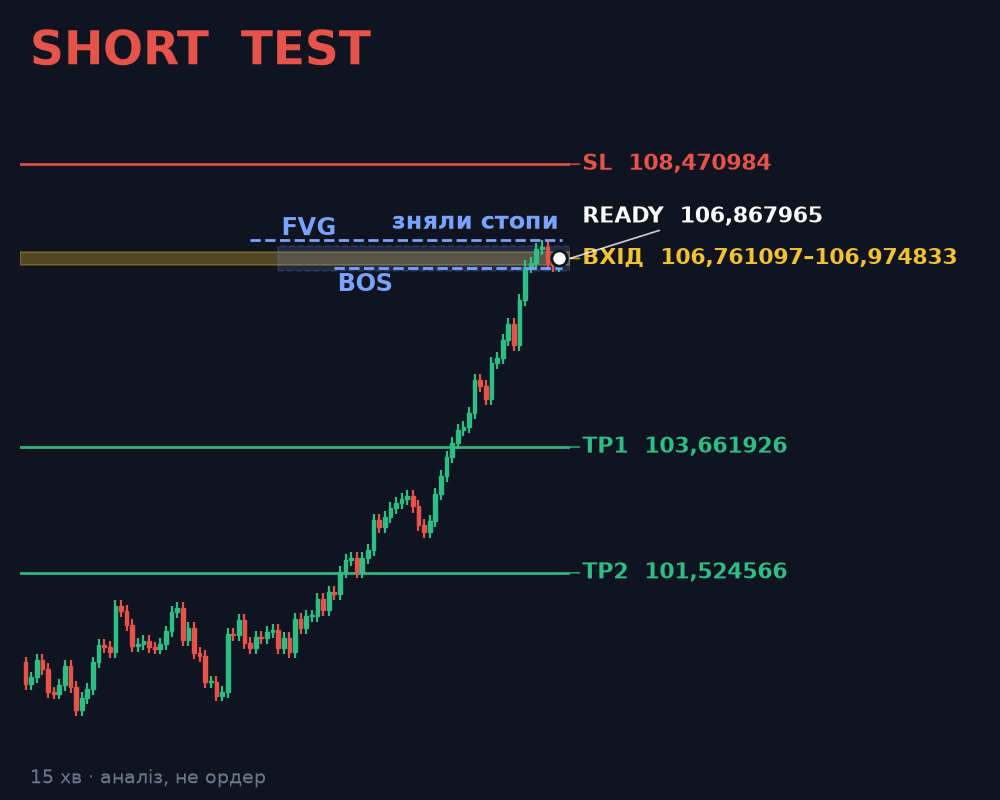
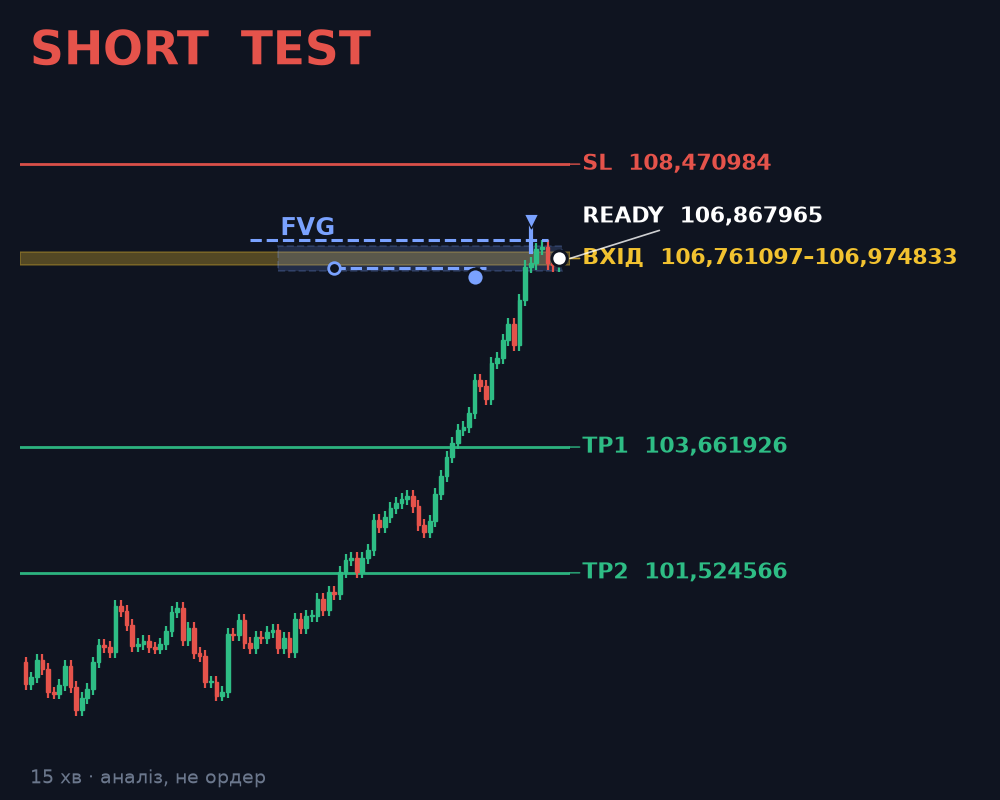
Докази на картці: геометрія FVG (зона, напрям, статус, час), BOS/CHoCH (свінг → закриття за ним), sweep (рівень, тінь, закриття назад); підпис не далі 90 px від геометрії, маркери як перешкоди
Claude-Session: https://claude.ai/code/session_01PfKZ3KmLfycDhaKatouCoE

Changed region(s): [[0.279, 0.25, 0.589, 0.375]]

diff --git a/office_ready_card.py b/office_ready_card.py
@@ -203,31 +203,67 @@ def render(*, symbol: str, direction: str, candles: List[Dict[str, Any]], entry:
         return None if (step is None or t is None) else (float(t) - tt[0]) / step
 
     renderer = fig.canvas.get_renderer()
+    obstacles: List[Any] = []     # маркери й точки: підписи не лягають поверх
     placed: List[Any] = []        # зайняті прямокутники підписів (екранні координати): жоден підпис не лягає на інший
     skipped: List[str] = []
 
-    def put(txt: str, color: str, cands: List[Any]) -> bool:
-        """Ставить підпис у першому кандидаті, де він повністю в межах графіка й не перетинає вже поставлені; немає чистого місця → без підпису (геометрія лишається)."""
+    MAX_LABEL_PX = 90.0   # підпис не може бути далі за стільки пікселів від своєї геометрії; немає місця поруч → без підпису (краще лінія без слова, ніж слово не там)
+    label_dist: List[float] = []
+
+    def put(txt: str, color: str, cands: List[Any], anchors: List[Any]) -> bool:
+        """Ставить підпис у першому кандидаті: повністю в межах графіка, без перетину з уже поставленими й не далі MAX_LABEL_PX від геометрії (anchors — точки на ній, у даних)."""
+        pts = [ax.transData.transform((float(ax_), float(ay_))) for ax_, ay_ in anchors]
         for x, y, ha, va in cands:
             t = ax.text(x, y, txt, color=color, fontsize=17, fontweight="bold", ha=ha, va=va, zorder=9)
-            bb = t.get_window_extent(renderer).expanded(1.06, 1.3)
-            if ax.bbox.x0 <= bb.x0 and bb.x1 <= ax.bbox.x1 and ax.bbox.y0 <= bb.y0 and bb.y1 <= ax.bbox.y1 and not any(bb.overlaps(o) for o in placed):
+            raw = t.get_window_extent(renderer)
+            bb = raw.expanded(1.06, 1.3)
+            dist = min((max(raw.x0 - px, 0.0, px - raw.x1) ** 2 + max(raw.y0 - py, 0.0, py - raw.y1) ** 2) ** 0.5 for px, py in pts) if pts else 0.0
+            if (ax.bbox.x0 <= bb.x0 and bb.x1 <= ax.bbox.x1 and ax.bbox.y0 <= bb.y0 and bb.y1 <= ax.bbox.y1 and not any(bb.overlaps(o) for o in placed + obstacles)
+                    and dist <= MAX_LABEL_PX):
                 placed.append(bb)
+                label_dist.append(round(float(dist), 1))
                 return True
             t.remove()
         skipped.append(txt)
         return False
 
-    def spots(x_left: float, y: float, dy: float) -> List[Any]:
-        """Кандидати для підпису біля горизонтального об'єкта: ліворуч/праворуч, над/під."""
-        return [(x_left, y + dy, "left", "bottom"), (n - 1.0, y + dy, "right", "bottom"), (x_left, y - dy, "left", "top"), (n - 1.0, y - dy, "right", "top")]
+    def block(x: float, y: float, px: float = 16.0) -> None:
+        """Маркер/точка — перешкода для підписів: текст не лягає поверх."""
+        from matplotlib.transforms import Bbox
 
+        cx, cy = ax.transData.transform((float(x), float(y)))
+        obstacles.append(Bbox([[cx - px, cy - px], [cx + px, cy + px]]))
+
+    def spots(x_left: float, x_right: float, y: float, dy: float) -> List[Any]:
+        """Кандидати для підпису біля горизонтального відрізка: над/під, з лівого й правого краю."""
+        return [(x_left, y + dy, "left", "bottom"), (x_right, y + dy, "right", "bottom"), (x_left, y - dy, "left", "top"), (x_right, y - dy, "right", "top")]
+
+    def seg_anchors(xa_: float, xb_: float, y: float) -> List[Any]:
+        return [(xa_ + (xb_ - xa_) * k / 6.0, y) for k in range(7)]
+
+    _rp0 = _f(ready_price)
+    if _rp0 is not None and y0 < _rp0 < y1:
+        block(n - 1, _rp0, 16.0)   # маркер READY — перешкода для підписів доказів
+    for it in (evidence or [])[:3]:   # спершу всі маркери доказів стають перешкодами, потім ставимо підписи
+        try:
+            if it.get("draw") == "break" and x_of(it.get("t0")) is not None and x_of(it.get("t_break")) is not None:
+                block(x_of(it["t0"]), float(it["price"]))
+                block(x_of(it["t_break"]), float(it["close"]))
+            elif it.get("draw") == "sweep" and x_of(it.get("t_sweep")) is not None:
+                block(x_of(it["t_sweep"]), float(it["extreme"]))
+            elif it.get("draw") == "marker" and x_of(it.get("t")) is not None:
+                block(x_of(it["t"]), float(it["price"]))
+        except Exception:  # noqa: BLE001
+            continue
     drawn_ev: List[str] = []
     for it in (evidence or [])[:3]:   # докази цього READY: лише те, що дало підтвердження (office_ready_evidence)
         try:
             kind, lab, dw = str(it.get("kind")), str(it.get("label") or ""), it.get("draw")
+            if lab and dw in ("sweep", "break") and it.get("price") is not None:
+                lab = f"{lab} {_num(it['price'], symbol)}"   # у підписі — сам рівень
             if dw == "lines":
                 chan = kind == "channel_edge"
+                first = None
                 for ln in it.get("lines") or []:
                     x0, x1 = x_of(ln["t0"]), x_of(ln["t1"])
                     if x0 is None or x1 is None or x1 == x0:
@@ -237,36 +273,61 @@ def render(*, symbol: str, direction: str, candles: List[Dict[str, Any]], entry:
                     ya, yb = float(ln["p0"]) + slope_ * (xs - x0), float(ln["p0"]) + slope_ * (xe - x0)
                     mid = chan and ln.get("role") == "mid"
                     ax.plot([xs, xe], [ya, yb], color=EVC, linewidth=1.4 if chan else 2.6, linestyle=":" if mid else "-", alpha=0.75 if chan else 0.95, zorder=5)
-                ln0 = (it.get("lines") or [None])[0]
-                if ln0 and lab:
-                    x0, x1 = x_of(ln0["t0"]), x_of(ln0["t1"])
-                    if x0 is not None and x1 not in (None, x0):
-                        slope0 = (float(ln0["p1"]) - float(ln0["p0"])) / (x1 - x0)
-                        cands = [(max(x0, 0.0) - 0.8, float(ln0["p0"]) + slope0 * (max(x0, 0.0) - x0), "right", "center")]   # зліва від початку лінії — там зазвичай порожньо
-                        xa, xb = max(x0, 0.0), min(max(x0, x1), n - 1.0)   # лише там, де лінія реально видна на графіку
-                        for fr in (0.5, 0.3, 0.7, 0.15, 0.85):
-                            xl = xa + (xb - xa) * fr
-                            yl = float(ln0["p0"]) + (float(ln0["p1"]) - float(ln0["p0"])) / (x1 - x0) * (xl - x0)
-                            cands += [(xl, yl + rng * 0.03, "center", "bottom"), (xl, yl - rng * 0.03, "center", "top")]
-                        put(lab, EVC, cands)
-            elif dw == "band":
-                xs = max(-1.0, x_of(it.get("t0")) or -1.0)
-                ax.add_patch(Rectangle((xs, float(it["lo"])), n + 1 - xs, max(float(it["hi"]) - float(it["lo"]), rng * 0.006), facecolor=EVC, alpha=0.16, edgecolor=EVC,
-                                       linewidth=1.2, linestyle="--", zorder=1))
+                    if first is None:
+                        first = (x0, x1, slope_, float(ln["p0"]))
+                if first and lab:
+                    x0, x1, sl0, p0 = first
+                    xa, xb = max(x0, 0.0), min(max(x0, x1), n - 1.0)   # лише там, де лінія реально видна на графіку
+                    ypt = lambda xx: p0 + sl0 * (xx - x0)  # noqa: E731
+                    cands = [(xa - 0.8, ypt(xa), "right", "center")]   # зліва від початку лінії — там зазвичай порожньо
+                    for fr in (0.5, 0.3, 0.7, 0.15, 0.85):
+                        xl = xa + (xb - xa) * fr
+                        cands += [(xl, ypt(xl) + rng * 0.03, "center", "bottom"), (xl, ypt(xl) - rng * 0.03, "center", "top")]
+                    put(lab, EVC, cands, [(xa + (xb - xa) * k / 6.0, ypt(xa + (xb - xa) * k / 6.0)) for k in range(7)])
+            elif dw == "band":   # FVG / рівень / OB / OTE: зона від t0 до t1 (або до кінця графіка)
+                xs = max(-1.0, x_of(it.get("t0")) if x_of(it.get("t0")) is not None else -1.0)
+                xe = min(n + 1.0, x_of(it.get("t1")) + 0.5) if x_of(it.get("t1")) is not None else n + 1.0
+                lo_, hi_ = float(it["lo"]), float(it["hi"])
+                ax.add_patch(Rectangle((xs, lo_), max(xe - xs, 0.5), max(hi_ - lo_, rng * 0.006), facecolor=EVC, alpha=0.18, edgecolor=EVC, linewidth=1.4, linestyle="--", zorder=1))
                 if lab:
-                    cands = [(xs + 0.6, float(it["hi"]) + rng * 0.008, "left", "bottom"), (n - 1.0, float(it["hi"]) + rng * 0.008, "right", "bottom"),
-                             (xs + 0.6, float(it["lo"]) - rng * 0.008, "left", "top"), (n - 1.0, float(it["lo"]) - rng * 0.008, "right", "top")]
-                    put(lab, EVC, cands)
+                    cands = spots(xs + 0.4, xe - 0.4, hi_ if True else lo_, rng * 0.008)[:2] + [(xs + 0.4, lo_ - rng * 0.008, "left", "top"), (xe - 0.4, lo_ - rng * 0.008, "right", "top")]
+                    put(lab, EVC, cands, [(xs, hi_), (xs, lo_), (xe, hi_), (xe, lo_), ((xs + xe) / 2, hi_), ((xs + xe) / 2, lo_)])
             elif dw == "hline":
-                xs = max(-1.0, x_of(it.get("t0")) or -1.0)
+                xs = max(-1.0, x_of(it.get("t0")) if x_of(it.get("t0")) is not None else -1.0)
                 ax.plot([xs, n - 0.5], [float(it["price"])] * 2, color=EVC, linewidth=2.0, linestyle="--", zorder=5)
                 if lab:
-                    put(lab, EVC, spots(xs + 0.6, float(it["price"]), rng * 0.008))
+                    put(lab, EVC, spots(xs + 0.6, n - 1.0, float(it["price"]), rng * 0.008), seg_anchors(xs, n - 1.0, float(it["price"])))
+            elif dw == "break":   # BOS/CHoCH: структурний свінг → закриття за ним
+                xs, xb_ = x_of(it.get("t0")), x_of(it.get("t_break"))
+                if xs is None or xb_ is None:
+                    continue
+                pr = float(it["price"])
+                ax.plot([max(xs, -1.0), min(xb_ + 2.0, n - 0.5)], [pr, pr], color=EVC, linewidth=2.2, linestyle="--", zorder=5)
+                ax.scatter([xs], [pr], s=70, color=BG, edgecolors=EVC, linewidths=2, zorder=8)                 # свінг
+                ax.scatter([xb_], [float(it["close"])], s=150, color=EVC, edgecolors=BG, linewidths=2, zorder=8)  # свічка, що закрилась за ним
+                if lab:
+                    xm = (max(xs, 0.0) + xb_) / 2
+                    put(lab, EVC, [(xm, pr + rng * 0.03, "center", "bottom"), (xm, pr - rng * 0.03, "center", "top"), (xb_ + 1.5, pr + rng * 0.03, "left", "bottom"),
+                                   (xs - 0.5, pr + rng * 0.03, "right", "bottom")], [(xs, pr), (xb_, pr), (xm, pr)])
+            elif dw == "sweep":   # знятий рівень: лінія від першого дотику, тінь за рівень, закриття назад
+                xs, xw = x_of(it.get("t0")), x_of(it.get("t_sweep"))
+                if xs is None or xw is None:
+                    continue
+                pr, ex, cl = float(it["price"]), float(it["extreme"]), float(it["close"])
+                ax.plot([max(xs, -1.0), min(xw + 3.0, n - 0.5)], [pr, pr], color=EVC, linewidth=2.2, linestyle="--", zorder=5)
+                ax.plot([xw, xw], [ex, cl], color=EVC, linewidth=3.0, zorder=6)                       # тінь за рівень і повернення
+                ax.scatter([xw], [ex], s=110, marker="v" if it.get("type") == "high" else "^", color=EVC, edgecolors=BG, zorder=8)
+                if lab:
+                    above = it.get("type") == "high"
+                    d_ = rng * 0.035
+                    put(lab, EVC, [(xw - 1.0, pr + (d_ if above else -d_), "right", "bottom" if above else "top"), (xw + 1.5, pr + (d_ if above else -d_), "left", "bottom" if above else "top"),
+                                   (xw - 1.0, pr - (d_ if above else -d_), "right", "top" if above else "bottom")], [(xs, pr), (xw, pr), (xw, ex)])
             elif dw == "marker" and x_of(it.get("t")) is not None:
                 ax.scatter([x_of(it["t"])], [float(it["price"])], s=150, marker="v" if short else "^", color=EVC, edgecolors=BG, zorder=9)
                 if lab:
                     xm, pm = x_of(it["t"]), float(it["price"])
-                    put(lab, EVC, [(xm - 1.0, pm, "right", "center"), (xm + 1.0, pm, "left", "center"), (xm, pm + rng * 0.04, "center", "bottom"), (xm, pm - rng * 0.04, "center", "top")])
+                    put(lab, EVC, [(xm - 1.0, pm, "right", "center"), (xm + 1.0, pm, "left", "center"), (xm, pm + rng * 0.04, "center", "bottom"), (xm, pm - rng * 0.04, "center", "top")],
+                        [(xm, pm)])
             drawn_ev.append(kind)
         except Exception:  # noqa: BLE001
             continue
@@ -292,6 +353,7 @@ def render(*, symbol: str, direction: str, candles: List[Dict[str, Any]], entry:
     labels.append(((zlo + zhi) / 2, "ВХІД  " + (_num(zlo, symbol) if zlo == zhi else f"{_num(zlo, symbol)}–{_num(zhi, symbol)}"), YEL, True))
     rp = _f(ready_price)
     if rp is not None and y0 < rp < y1:
+        block(n - 1, rp, 14.0)
         ax.scatter([n - 1], [rp], s=120, color="#ffffff", edgecolors=BG, linewidths=2, zorder=7)
         labels.append((rp, f"READY  {_num(rp, symbol)}", "#ffffff", True))
     # підписи справа без накладання: мінімальний крок 6,5% висоти
@@ -331,4 +393,4 @@ def render(*, symbol: str, direction: str, candles: List[Dict[str, Any]], entry:
     plt.close(fig)
     data = open(path, "rb").read()
     return {"ok": True, "path": path, "sha256": hashlib.sha256(data).hexdigest(), "size": len(data),
-            "drawn": {"candles": n, "entry": [zlo, zhi], "sl": sl_, "tps": [t1, t2, t3], "tp3_edge": t3_edge, "ready": rp, "key_level": _f(key_level), "evidence": drawn_ev, "label_boxes": boxes, "labels_skipped": skipped, "size_px": [width_px, height_px]}}
+            "drawn": {"candles": n, "entry": [zlo, zhi], "sl": sl_, "tps": [t1, t2, t3], "tp3_edge": t3_edge, "ready": rp, "key_level": _f(key_level), "evidence": drawn_ev, "label_boxes": boxes, "labels_skipped": skipped, "label_dist_px": label_dist, "size_px": [width_px, height_px]}}

diff --git a/scripts/test_ready_evidence.py b/scripts/test_ready_evidence.py
@@ -100,6 +100,7 @@ def check_card(name, res, expect_ev):
     check("SL" in names and "TP1" in names and "READY" in names and "ВХІД" in names, f"{name}: базові підписи на місці: {names}")
     check(set(d["evidence"]) == set(expect_ev), f"{name}: докази {d['evidence']} ≠ {expect_ev}")
     check(d["sl"] is not None and not math.isnan(d["sl"]), f"{name}: SL намальовано")
+    check(all(x <= 90.0 for x in d["label_dist_px"]), f"{name}: підписи не далі 90 px від своєї геометрії: {d['label_dist_px']}")
 
 
 # 1) flag + рівень: SHORT; прапор — з реального детектора на 96 свічках
@@ -121,13 +122,31 @@ rows2 = noise_rows(96, 100.0, 0.003)
 rows2 = [dict(c, ts=(T0 + timedelta(minutes=15 * i)).isoformat()) for i, c in enumerate(rows2)]
 tb = T0.timestamp()
 last = rows2[-1]["close"]
-items2 = [{"kind": "fvg_retest", "label": "FVG", "draw": "band", "lo": last * 0.998, "hi": last * 1.002, "t0": tb + 15 * 15 * 60 * 3},
-          {"kind": "sweep_pool", "label": "зняли стопи", "draw": "hline", "price": last * 1.003, "t0": tb + 15 * 60 * 40},
-          {"kind": "bos", "label": "BOS", "draw": "hline", "price": last * 0.9985, "t0": tb + 15 * 60 * 55}]
+items2 = [{"kind": "fvg_retest", "label": "FVG", "draw": "band", "lo": last * 0.998, "hi": last * 1.002, "t0": tb + 900 * 45, "t1": tb + 900 * 95, "direction": "SHORT", "status": "MITIGATED"},
+          {"kind": "sweep_pool", "label": "зняли стопи", "draw": "sweep", "price": last * 1.003, "pool": "BSL", "type": "high", "t0": tb + 900 * 40, "t_sweep": tb + 900 * 90,
+           "extreme": last * 1.006, "close": last * 1.001},
+          {"kind": "bos", "label": "BOS", "draw": "break", "price": last * 0.9985, "t0": tb + 900 * 55, "t_break": tb + 900 * 80, "close": last * 0.997}]
 r2 = rc.render(symbol="TESTUSDT", direction="SHORT", candles=rows2,
                entry=last, zone=[last * 0.999, last * 1.001], sl=last * 1.015, tp1=last * 0.97, tp2=last * 0.95, ready_price=last, evidence=items2,
                path=os.path.join(tempfile.gettempdir(), "ctl_fvg_sweep.png"))
 check_card("fvg+sweep+bos", r2, ["fvg_retest", "sweep_pool", "bos"])
+# 2b) sweep із реального детектора: рівень, тінь, закриття назад
+sw_rows = []
+for i in range(40):
+    base = 100 + 0.2 * ((i % 3) - 1)
+    h, l, o, c = base + 0.4, base - 0.4, base - 0.1, base + 0.1
+    if i in (10, 20):
+        h = 105
+    if i == 36:
+        h, c, o = 106, 103.2, 104.5
+    sw_rows.append({"ts": (T0 + timedelta(minutes=15 * i)).isoformat(), "open": o, "high": h, "low": l, "close": c})
+e_sw = ev.build(sw_rows, "SHORT", 103, 106, ["sweep_pool"])
+it_sw = e_sw["items"][0] if e_sw["items"] else {}
+check(it_sw.get("draw") == "sweep" and it_sw.get("price") == 105.0 and it_sw.get("extreme") == 106.0 and it_sw.get("close") == 103.2 and it_sw.get("type") == "high"
+      and it_sw.get("t0") and it_sw.get("t_sweep"), f"sweep: рівень, тип, екстремум, закриття, час: {e_sw}")
+r_sw = rc.render(symbol="TESTUSDT", direction="SHORT", candles=sw_rows, entry=103.0, zone=[102.5, 103.5], sl=106.5, tp1=100.0, ready_price=103.0, evidence=e_sw["items"],
+                 path=os.path.join(tempfile.gettempdir(), "ctl_sweep_real.png"))
+check_card("sweep(real)", r_sw, ["sweep_pool"])
 # 3) channel_edge — канал із реального детектора
 rows3 = []
 for i in range(120):

diff --git a/office_ready_evidence.py b/office_ready_evidence.py
@@ -80,7 +80,8 @@ def build(candles: Any, side: str, zone_lo: Any, zone_hi: Any, tags: List[str], 
                 r120 = rows[-120:]
                 for g in smc.fvgs(r120, a)[-6:]:
                     if g["side"] == side and g["state"] == "MITIGATED" and lo_ <= g["hi"] and hi_ >= g["lo"] and g["idx"] < len(r120) - 3:
-                        it = {"kind": kind, "draw": "band", "lo": g["lo"], "hi": g["hi"], "t0": _ts(r120[max(0, g["idx"] - 1)].get("ts"))}
+                        it = {"kind": kind, "draw": "band", "lo": g["lo"], "hi": g["hi"], "t0": _ts(r120[max(0, g["idx"] - 1)].get("ts")), "t1": _ts(r120[-1].get("ts")),
+                              "direction": g["side"], "status": g["state"]}   # t0 — перша свічка трійки, t1 — остання закрита свічка (ретест)
                         break
             elif kind in ("ob_retest", "breaker_retest"):
                 lo_, hi_ = float(rows[-1]["low"]), float(rows[-1]["high"])
@@ -91,15 +92,27 @@ def build(candles: Any, side: str, zone_lo: Any, zone_hi: Any, tags: List[str], 
                         break
             elif kind == "sweep_pool":
                 r120 = rows[-120:]
-                for s_ in smc.sweeps(r120, smc.liquidity_pools(r120, a), since=len(r120) - 6):
+                pools = smc.liquidity_pools(r120, a)
+                for s_ in smc.sweeps(r120, pools, since=len(r120) - 6):
                     if s_["side"] == side:
-                        it = {"kind": kind, "draw": "hline", "price": s_["level"], "t0": _ts(r120[max(0, s_["idx"] - 15)].get("ts")), "mark_t": _ts(r120[s_["idx"]].get("ts"))}
+                        pool = next((p_ for p_ in pools.get(s_["pool"], []) if p_["level"] == s_["level"]), None)
+                        c_ = r120[s_["idx"]]
+                        high_ = s_["pool"] == "BSL"
+                        it = {"kind": kind, "draw": "sweep", "price": s_["level"], "pool": s_["pool"], "type": "high" if high_ else "low",
+                              "t0": _ts(r120[pool["first"]].get("ts")) if pool else _ts(r120[max(0, s_["idx"] - 15)].get("ts")),
+                              "t_sweep": _ts(c_.get("ts")), "extreme": float(c_["high"] if high_ else c_["low"]), "close": float(c_["close"]),
+                              "touches": pool["touches"] if pool else None}
                         break
             elif kind in ("bos", "choch"):
                 r120 = rows[-120:]
+                hi_sw, lo_sw = smc.swings(r120)
                 for e in smc.structure(r120)["events"]:
                     if e["side"] == side and e["kind"] == kind and e["idx"] >= len(r120) - 4:
-                        it = {"kind": kind, "draw": "hline", "price": e["level"], "t0": _ts(r120[max(0, e["idx"] - 12)].get("ts"))}
+                        sw = hi_sw[-1] if side == "LONG" else lo_sw[-1]   # структурний свінг, за який закрилась свічка (як у office_smc.structure)
+                        if abs(sw[1] - e["level"]) > 1e-12:
+                            break
+                        it = {"kind": kind, "draw": "break", "price": e["level"], "t0": _ts(r120[sw[0]].get("ts")), "t_break": _ts(r120[e["idx"]].get("ts")),
+                              "close": float(r120[e["idx"]]["close"])}
                         break
             elif kind == "ote":
                 rng = smc.dealing_range(rows[-120:])
